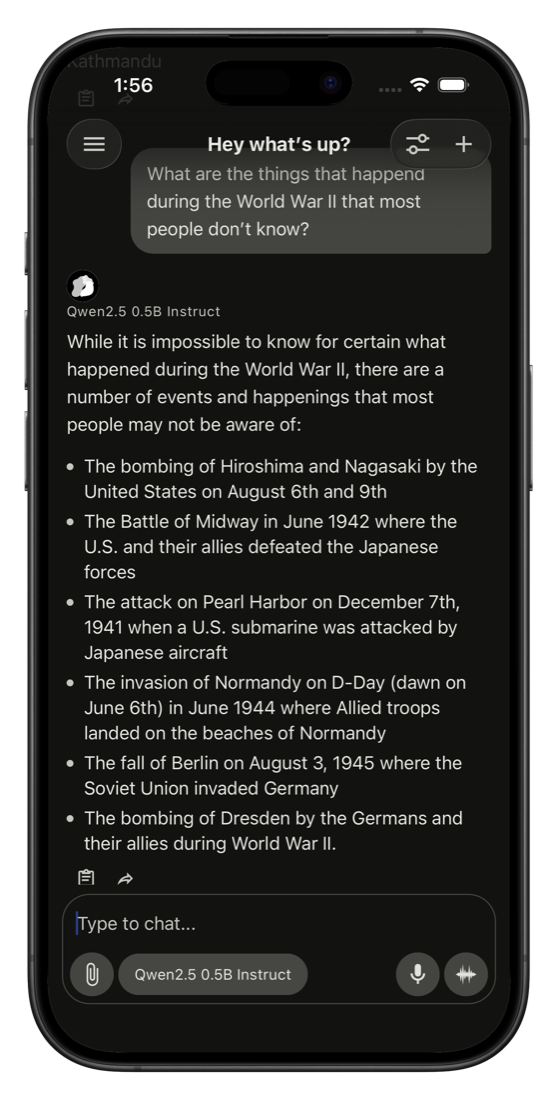
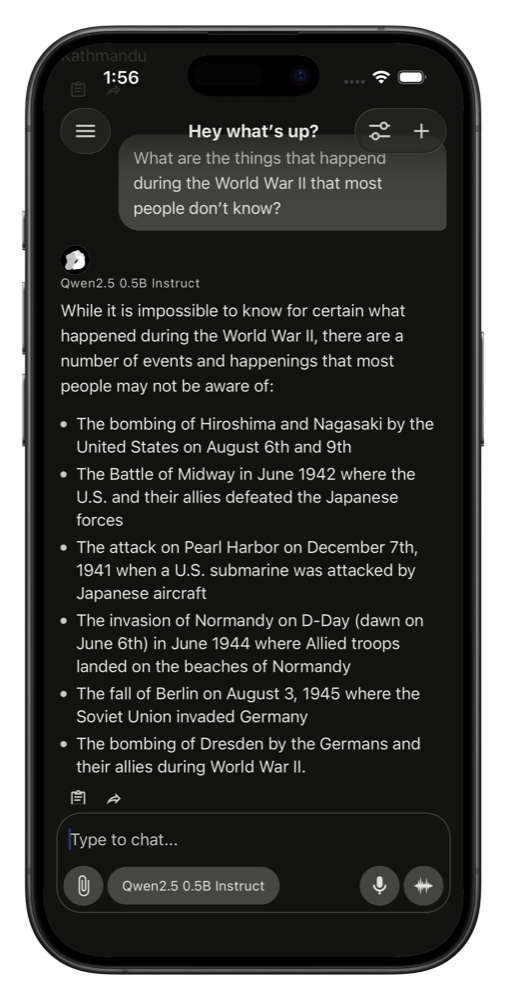
Show three screenshots and add an FAQ
The hero now carries the light chat, the dark chat and the generation
settings screen, fanned with the dark one in front. Settings earns its
place: 'you can change the system prompt and sampling' is hard to say in
a sentence and obvious in a picture.

Adds an FAQ built on <details>, so it needs no JavaScript and stays open
to search engines, with FAQPage structured data alongside it. The six
questions are the ones actually worth answering before an install: cost,
whether anything leaves the device, which model to start with, storage,
photos, and why iOS is missing.

The layout is back to copy-left / shots-right after an experiment with
the columns reversed.

diff --git a/docs/index.html b/docs/index.html
@@ -80,7 +80,64 @@
         "sameAs": "https://github.com/iamkishansharma/whereismyai"
       }
     </script>
+    <script type="application/ld+json">
+      {
+        "@context": "https://schema.org",
+        "@type": "FAQPage",
+        "mainEntity": [
+          {
+            "@type": "Question",
+            "name": "Is it really free?",
+            "acceptedAnswer": {
+              "@type": "Answer",
+              "text": "Yes. No ads, no subscription, no account. Open source under the Apache License 2.0."
+            }
+          },
+          {
+            "@type": "Question",
+            "name": "Does my conversation ever leave the phone?",
+            "acceptedAnswer": {
+              "@type": "Answer",
+              "text": "No. There is no server. The only download is the model file from Hugging Face; after that it works in airplane mode."
+            }
+          },
+          {
+            "@type": "Question",
+            "name": "Which model should I start with?",
+            "acceptedAnswer": {
+              "@type": "Answer",
+              "text": "Qwen2.5 0.5B Instruct, about 469 MB, runs on almost any phone."
+            }
+          },
+          {
+            "@type": "Question",
+            "name": "How much storage does it need?",
+            "acceptedAnswer": {
+              "@type": "Answer",
+              "text": "Models range from roughly 105 MB to about 2 GB each and can be deleted in the app."
+            }
+          },
+          {
+            "@type": "Question",
+            "name": "Can it look at photos?",
+            "acceptedAnswer": {
+              "@type": "Answer",
+              "text": "Yes, with a vision model. Images are processed on the device."
+            }
+          },
+          {
+            "@type": "Question",
+            "name": "Why is there no iPhone version yet?",
+            "acceptedAnswer": {
+              "@type": "Answer",
+              "text": "Publishing to the App Store requires a paid Apple Developer account."
+            }
+          }
+        ]
+      }
+    </script>
   </head>
+
   <body>
     <header class="top">
       <div class="top-inner">
@@ -127,10 +184,10 @@
           <span class="pill"
             ><span class="dot"></span> v1.0 is live on Google Play</span
           >
-          <h1>AI that runs on <span class="grad">your phone</span>.</h1>
+          <h1>AI that runs on<br /><span class="grad">your phone</span>.</h1>
           <p class="lead">
             Download an open-source model once, then chat with it entirely on
-            your device. No account, no server, no tracking — and after the
+            your device. No account, no server, no tracking & after the
             download, no internet either.
           </p>
 
@@ -180,6 +237,7 @@
 
           <p class="stores-note">
             iOS needs a paid Apple Developer account —
+
             <a href="https://github.com/iamkishansharma/whereismyai/issues/6"
               >help sponsor the release →</a
             >
@@ -188,14 +246,20 @@
 
         <div class="shots">
           <img
-            class="shot back"
-            src="shot-light.png"
-            alt="Attaching a photo to ask a vision model about it"
+            class="shot s1"
+            src="shot-dark.png"
+            alt="A model answering in dark mode, entirely on-device"
           />
           <img
-            class="shot front"
-            src="shot-dark.png"
-            alt="A model answering a question entirely on-device"
+            class="shot s2"
+            src="shot-light.png"
+            alt="A chat in light mode, with a photo attached for a vision model"
+          />
+
+          <img
+            class="shot s3"
+            src="shot-config.png"
+            alt="Per-model generation settings: system prompt, sampling and context window"
           />
         </div>
       </section>
@@ -276,6 +340,60 @@
           <h3>Open source</h3>
           <p>Apache 2.0 — verify every claim on this page yourself.</p>
         </div>
+      </section>
+
+      <section class="faq" id="faq">
+        <h2 class="section-title">Questions</h2>
+        <details>
+          <summary>Is it really free?</summary>
+          <p>
+            Yes. No ads, no subscription, no account, no paid tier. It is open
+            source under the Apache License 2.0, so you can read every line of
+            it — or build it yourself.
+          </p>
+        </details>
+        <details>
+          <summary>Does my conversation ever leave the phone?</summary>
+          <p>
+            No. There is no server to send it to. The only thing the app
+            downloads is the model file itself, from Hugging Face. After that
+            you can switch on airplane mode and it keeps working.
+          </p>
+        </details>
+        <details>
+          <summary>Which model should I start with?</summary>
+          <p>
+            Qwen2.5 0.5B Instruct — about 469&nbsp;MB, and it runs on almost any
+            phone. Bigger models answer better but need more memory, so work
+            upwards from there.
+          </p>
+        </details>
+        <details>
+          <summary>How much storage does it need?</summary>
+          <p>
+            The app is small; the models are not. They range from roughly
+            105&nbsp;MB to about 2&nbsp;GB each. Keep as many as you like and
+            delete any of them from inside the app.
+          </p>
+        </details>
+        <details>
+          <summary>Can it look at photos?</summary>
+          <p>
+            Yes, with a vision model. Pick one from the library, then attach a
+            photo or take one. The image is processed on the device like
+            everything else.
+          </p>
+        </details>
+        <details>
+          <summary>Why is there no iPhone version yet?</summary>
+          <p>
+            The app is built for both, but publishing to the App&nbsp;Store
+            needs a paid Apple Developer account.
+            <a href="https://github.com/iamkishansharma/whereismyai/issues/6"
+              >Help sponsor it →</a
+            >
+          </p>
+        </details>
       </section>
     </main>
 

diff --git a/docs/style.css b/docs/style.css
@@ -173,10 +173,10 @@ body::before {
 
 .hero {
   display: grid;
-  grid-template-columns: 1.02fr 0.98fr;
+  grid-template-columns: 1.06fr 0.94fr;
   align-items: center;
-  gap: 56px;
-  padding: 76px 0 40px;
+  gap: 60px;
+  padding: 88px 0 52px;
 }
 @media (max-width: 860px) {
   .hero {
@@ -212,9 +212,9 @@ body::before {
 
 h1 {
   margin: 0 0 18px;
-  font-size: clamp(36px, 5.6vw, 58px);
-  line-height: 1.04;
-  letter-spacing: -0.038em;
+  font-size: clamp(38px, 5.4vw, 60px);
+  line-height: 1.02;
+  letter-spacing: -0.04em;
   font-weight: 700;
 }
 h1 .grad {
@@ -317,64 +317,68 @@ h1 .grad {
 
 /* ---------- device shots ---------- */
 
-/* The screenshots already carry the iPhone frame, so no CSS bezel here --
-   two of them, offset, to show light and dark at once. */
+/* Three real screenshots, fanned. They already carry the iPhone frame, so
+   there is no CSS bezel here -- only shadow, rotation and a glow behind. */
 .shots {
   position: relative;
   display: grid;
   place-items: center;
-  min-height: 560px;
+  min-height: 540px;
 }
 .shots::before {
   content: '';
   position: absolute;
-  width: 86%;
-  height: 72%;
+  width: 96%;
+  height: 70%;
   border-radius: 50%;
   background: linear-gradient(120deg, #6374ff, #00c4a6);
-  filter: blur(76px);
-  opacity: 0.45;
+  filter: blur(78px);
+  opacity: 0.42;
   z-index: 0;
 }
 .shot {
   position: absolute;
   display: block;
-  width: 252px;
-  max-width: 62vw;
+  width: 186px;
+  max-width: 42vw;
   height: auto;
-  border-radius: 30px;
-  will-change: transform;
+  border-radius: 26px;
 }
-.shot.back {
+.shot.s1 {
   z-index: 1;
-  transform: translate(-30%, -4%) rotate(-7deg);
-  filter: drop-shadow(0 26px 48px rgba(16, 16, 20, 0.22));
-  opacity: 0.96;
+  transform: translate(-64%, -5%) rotate(-9deg);
+  filter: drop-shadow(0 22px 40px rgba(16, 16, 20, 0.2));
 }
-.shot.front {
+.shot.s2 {
+  z-index: 3;
+  transform: translateY(3%) scale(1.1);
+  filter: drop-shadow(0 32px 58px rgba(16, 16, 20, 0.28));
+}
+.shot.s3 {
   z-index: 2;
-  transform: translate(16%, 5%) rotate(4deg);
-  filter: drop-shadow(0 34px 62px rgba(16, 16, 20, 0.3));
+  transform: translate(64%, -5%) rotate(9deg);
+  filter: drop-shadow(0 22px 40px rgba(16, 16, 20, 0.2));
 }
-:root[data-theme='dark'] .shot.back {
-  filter: drop-shadow(0 26px 48px rgba(0, 0, 0, 0.6));
+:root[data-theme='dark'] .shot.s1,
+:root[data-theme='dark'] .shot.s3 {
+  filter: drop-shadow(0 22px 40px rgba(0, 0, 0, 0.62));
 }
-:root[data-theme='dark'] .shot.front {
-  filter: drop-shadow(0 34px 62px rgba(0, 0, 0, 0.75));
+:root[data-theme='dark'] .shot.s2 {
+  filter: drop-shadow(0 32px 58px rgba(0, 0, 0, 0.78));
 }
 
 @media (max-width: 860px) {
   .shots {
-    min-height: 470px;
+    min-height: 430px;
   }
   .shot {
-    width: 218px;
+    width: 164px;
   }
-  .shot.back {
-    transform: translate(-27%, -4%) rotate(-7deg);
+  .shot.s1 {
+    transform: translate(-58%, -5%) rotate(-9deg);
   }
-  .shot.front {
-    transform: translate(15%, 5%) rotate(4deg);
+  .shot.s3 {
+    transform: translate(58%, -5%) rotate(9deg);
   }
 }
 
@@ -384,7 +388,7 @@ h1 .grad {
   display: grid;
   grid-template-columns: repeat(auto-fit, minmax(210px, 1fr));
   gap: 13px;
-  padding: 26px 0 84px;
+  padding: 8px 0 22px;
 }
 .tile {
   padding: 18px 19px;
@@ -496,6 +500,74 @@ a:hover {
 .brand,
 .top nav a {
   text-decoration: none;
+}
+
+/* ---------- FAQ ---------- */
+
+.faq {
+  max-width: 760px;
+  margin: 0 auto;
+  padding: 44px 0 90px;
+}
+.faq details {
+  border: 1px solid var(--border);
+  border-radius: 15px;
+  background: var(--glass);
+  backdrop-filter: blur(16px) saturate(170%);
+  -webkit-backdrop-filter: blur(16px) saturate(170%);
+  margin-bottom: 10px;
+  overflow: hidden;
+}
+.faq summary {
+  list-style: none;
+  cursor: pointer;
+  padding: 16px 48px 16px 19px;
+  position: relative;
+  font-size: 15.5px;
+  font-weight: 620;
+  letter-spacing: -0.012em;
+  color: var(--ink);
+}
+.faq summary::-webkit-details-marker {
+  display: none;
+}
+/* chevron, rotated when open */
+.faq summary::after {
+  content: '';
+  position: absolute;
+  right: 20px;
+  top: 50%;
+  width: 8px;
+  height: 8px;
+  margin-top: -5px;
+  border-right: 2px solid var(--ink-mute);
+  border-bottom: 2px solid var(--ink-mute);
+  transform: rotate(45deg);
+  transition: transform 0.18s ease;
+}
+.faq details[open] summary::after {
+  transform: rotate(-135deg);
+  margin-top: -2px;
+}
+.faq summary:hover {
+  background: var(--glass-strong);
+}
+.faq details p {
+  margin: 0;
+  padding: 0 19px 18px;
+  font-size: 14.5px;
+  line-height: 1.62;
+  color: var(--ink-soft);
+}
+.faq .section-title {
+  text-align: center;
+  margin-bottom: 22px;
+}
+
+@media (prefers-reduced-motion: reduce) {
+  .faq summary::after {
+    transition: none;
+  }
 }
 
 /* ---------- footer ---------- */
